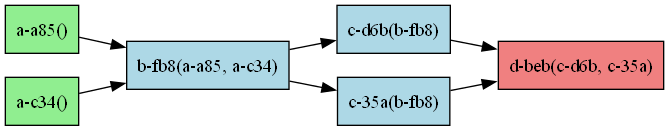
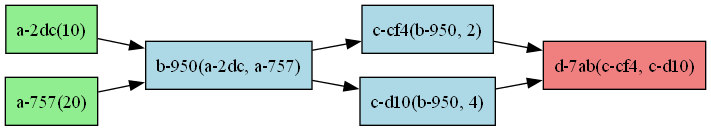
improve user interface + fix visualization bug where only task dependencies were shown, and not pre-computed ones

Changed region(s): [[0.0, 0.0305, 1.0, 0.9771]]

diff --git a/src/Executor.py b/src/Executor.py
@@ -5,50 +5,60 @@ from typing import Any
 import uuid
 import cloudpickle
 
-import src.intermediate_storage as intermediate_storage
 import src.dag as dag
+import src.intermediate_storage as intermediate_storage
 import src.dag_task_node as dag_task_node
 
-class InternalWorker:
+class VirtualWorker:
     """
-    A worker that processes DAG tasks in a depth-first manner,
-    continuing with single downstream tasks and spawning new workers for branches.
+    Processes DAG tasks
+    continuing with single downstream tasks and spawning new workers (coroutines) for branches.
     """
     def __init__(self, executor: "Executor", subdag: dag.DAG):
         self.executor = executor
         self.subdag = subdag
         self.worker_id = str(uuid.uuid4())[:3]  # Use first 8 chars of a UUID for readable IDs
     
-    def execute_task(self, task: dag_task_node.DAGTaskNode) -> asyncio.Task:
-        return asyncio.create_task(self._execute_task(task))
-
-    async def _execute_task(self, task: dag_task_node.DAGTaskNode):
+    async def execute_task(self, task: dag_task_node.DAGTaskNode):
         try:
-            # Execute the node. If this function was called, it means all its dependencies are in remote Storage
+            if self.executor.shutdown_flag.is_set(): return
+
+            # 1. DOWNLOAD DEPENDENCIES
+            self.log(task.task_id, f"({task.task_id}) 1) Grabbing Dependencies...")
             task_dependencies: dict[str, Any] = {}
             for dependency_task in task.upstream_nodes:
                 task_output = intermediate_storage.IntermediateStorage.get(dependency_task.task_id)
                 if task_output is None: raise Exception(f"[BUG] Task {dependency_task.task_id}'s data is not available")
                 task_dependencies[dependency_task.task_id] = cloudpickle.loads(task_output) # type: ignore
             
-            self.log(task.task_id, f"({task.task_id}) Executing...")
-            task_result = task.execute(dependencies=task_dependencies)
+            # 2. EXECUTE TASK
+            self.log(task.task_id, f"({task.task_id}) 2) Executing...")
+            task_result = task.invoke(dependencies=task_dependencies)
             upload_result = intermediate_storage.IntermediateStorage.set(task.task_id, cloudpickle.dumps(task_result))
             if not upload_result: raise Exception(f"[BUG] Task {task.task_id}'s data could not be uploaded to Redis (set() failed)")
-            self.log(task.task_id, f"({task.task_id}) Executed!")
 
+            if self.executor.shutdown_flag.is_set(): return
+
+            if len(task.downstream_nodes) == 0: 
+                self.log(task.task_id, f"Last Task finished. Shutting down executor...")
+                self.executor.shutdown_flag.set()
+                return
+
+            # 3. HANDLE FAN-OUT (1-1 or 1-N)
+            self.log(task.task_id, f"({task.task_id}) 3) Handle Fan-Out {task.task_id} => [{[t.task_id for t in task.downstream_nodes]}]")
             ready_downstream: list[dag_task_node.DAGTaskNode] = []
             for downstream_task in task.downstream_nodes:
                 downstream_task_total_dependencies = len(self.subdag.get_node_by_id(downstream_task.task_id).upstream_nodes)
                 if downstream_task_total_dependencies == 1: # {task} was the only dependency
-                    self.log(task.task_id, f"1-1 READY {downstream_task.task_id}")
                     ready_downstream.append(downstream_task)
                 else:
                     dependencies_met = intermediate_storage.IntermediateStorage.increment_and_get(f"dependency-counter-{downstream_task}")
+                    self.log(task.task_id, f"Incremented DC of {downstream_task.task_id} ({dependencies_met}/{downstream_task_total_dependencies})")
                     if dependencies_met == downstream_task_total_dependencies:
-                        self.log(task.task_id, f"FAN-IN READY {downstream_task.task_id} ({dependencies_met}/{downstream_task_total_dependencies})")
                         ready_downstream.append(downstream_task)
             
+            if self.executor.shutdown_flag.is_set(): return
+
             # Delegate Downstream Tasks Execution
             ## 1 Task ?: the same worker continues with it
             if len(ready_downstream) == 1:
@@ -59,12 +69,11 @@ class InternalWorker:
                 tasks_to_delegate = ready_downstream[1:]
                 
                 for task in tasks_to_delegate:
-                    InternalWorker(self.executor, subdag=dag.DAG(master_dag_id=self.subdag.master_dag_id, sink_node=self.subdag.sink_node, root_nodes=[task])).execute_task(self.subdag.get_node_by_id(task.task_id))
+                    self.executor._spawn_new_virtual_worker(task)
                 
                 # Continue with one task in this worker
                 self.log(task.task_id, f"Continuing with first of multiple downstream tasks: {continuation_task}")
                 await self.execute_task(continuation_task)
-                
         except Exception as e:
             self.log(task.task_id, f"Error")
             raise e
@@ -82,22 +91,19 @@ class Executor:
     """
     def __init__(self, dag: dag.DAG):
         self.dag = dag
-        self.shutdown_flag = threading.Event()
+        self.workers: list[asyncio.Task] = []
+        self.shutdown_flag = asyncio.Event()
 
-    async def execute(self):
-        """Start executing the DAG from root nodes."""
-        # storage_pubsub_topic = f"{self.dag.master_dag_id}-final-result"
-        # await intermediate_storage.IntermediateStorage.subscribe_to_channel(storage_pubsub_topic, callback=self.ready_queue.put_nowait,wait_for_result=False)
-
+    async def start_executing(self):
         # Create 1 worker per root node
         for root_node in self.dag.root_nodes:
-            InternalWorker(self, dag.DAG(master_dag_id=self.dag.master_dag_id, sink_node=self.dag.sink_node, root_nodes=[root_node])).execute_task(root_node)
+            self._spawn_new_virtual_worker(root_node)
         
-        print(f"Launched {len(self.dag.root_nodes)} workers. Waiting for the shutdown signal...")
-        self.shutdown_flag.wait()
-        print(f"DAG Executor Finishing. Doesn't mean master DAG is complete!!")
+        print(f"Launched {len(self.dag.root_nodes)} workers. Waiting for workers to shutdown...")
+        await asyncio.gather(*self.workers)
+        print(f"All workers finished. Executor Shutdown")
 
-        # TODO: worker cleanup code
-
-        # await intermediate_storage.IntermediateStorage.unsubscribe_from_channel(storage_pubsub_topic, wait_for_result=True)
-        # print(f"Unsubscribed from ready_queue channel")
+    def _spawn_new_virtual_worker(self, root_node: dag_task_node.DAGTaskNode):
+        self.workers.append(
+            asyncio.create_task(VirtualWorker(self, self.dag.create_subdag(root_nodes=[root_node])).execute_task(root_node))
+        )

diff --git a/src/DAG.py b/src/DAG.py
@@ -32,7 +32,12 @@ class DAG:
             self.all_nodes: dict[str, dag_task_node.DAGTaskNode] = self._find_all_nodes_from_sink()
             self.root_nodes: list[dag_task_node.DAGTaskNode] = self._identify_root_nodes()
     
+    def create_subdag(self, root_nodes: list[dag_task_node.DAGTaskNode]) -> "DAG":
+        return DAG(self.sink_node, master_dag_id=self.master_dag_id, root_nodes=root_nodes)
+
+    # User interface must be synchronous
     def start_remote_execution(self, wait_for_final_result=False):
+        # TODO: move out of here so that RemoteExecutor can use it as well
         def _invoke_remote_executor(subgraph: DAG):
             print(f"Invoking remote executor for subgraph with {len(subgraph.root_nodes)} root nodes | First Node: {subgraph.root_nodes[0].task_id}")
             response = requests.post(
@@ -44,30 +49,39 @@ class DAG:
 
         # Invoke 1 new Executor per root node
         for root_node in self.root_nodes:
-            # ! WRONG
-            # _invoke_remote_executor(DAG(self.sink_node, master_dag_id=self.master_dag_id, root_nodes=[root_node]))
-            pass
+            _invoke_remote_executor(DAG(self.sink_node, master_dag_id=self.master_dag_id, root_nodes=[root_node]))
             
         if wait_for_final_result: 
-            return self._wait_for_final_result()
+            res = asyncio.run(self._wait_for_final_result())
+            print(f"Got final result: {res}")
+            return res
 
+    # User interface must be synchronous
     def start_local_execution(self, wait_for_final_result=False):
-        e = executor.Executor(self)
-        execute_thread = threading.Thread(target=asyncio.run, args=(e.execute(),))
-        execute_thread.start()
-        def on_done():
-            e.shutdown_flag.set()
-        if wait_for_final_result: return self._wait_for_final_result(on_done=on_done)
+        async def internal():
+            coroutines: list[asyncio.Task] = []
+            
+            ex = executor.Executor(self)
+            coroutines.append(asyncio.create_task(ex.start_executing()))
+            
+            if wait_for_final_result:
+                wait_final_result_coroutine = asyncio.create_task(self._wait_for_final_result())
+                coroutines.append(wait_final_result_coroutine)
+                res = await wait_final_result_coroutine
+                ex.shutdown_flag.set()
+                return res
+            
+            await asyncio.gather(*coroutines)
+            return None
+        return asyncio.run(internal())
 
-    def _wait_for_final_result(self, on_done: Callable | None = None):
+    async def _wait_for_final_result(self):
+        # Asynchronously poll Storage for final result
         while True:
             final_result = intermediate_storage.IntermediateStorage.get(self.sink_node.task_id)
-            print(f"Final Result: {final_result}")
             if final_result is not None:
-                print(f"NICE: {final_result}, on_done: {on_done}")
-                if on_done: on_done()
                 return cloudpickle.loads(final_result) # type: ignore
-            time.sleep(self._FINAL_RESULT_POLLING_TIME_S)
+            await asyncio.sleep(self._FINAL_RESULT_POLLING_TIME_S)
 
     def _identify_root_nodes(self):
         """Identify root nodes (nodes with no upstream dependencies)."""
@@ -101,13 +115,10 @@ class DAG:
         
         for root_node in self.root_nodes: visit(root_node)
         return all_nodes
-
     
-    def get_node_by_id(self, node_id: str) -> dag_task_node.DAGTaskNode:
-        """Retrieve a node by its ID."""
-        return self.all_nodes[node_id]
+    def get_node_by_id(self, node_id: str) -> dag_task_node.DAGTaskNode: return self.all_nodes[node_id]
 
-    def visualize(self, output_file="dag_graph.png", highlight_roots=True, highlight_sink=True):
+    def visualize(self, output_file="dag_graph.png", highlight_roots=True, highlight_sink=True, open_after=True):
         # Create a new directed graph
         dot = graphviz.Digraph(
             comment="DAG Visualization",
@@ -119,9 +130,21 @@ class DAG:
         # Add nodes
         for node_id, node in self.all_nodes.items():
             # Create a label showing function name and args
+            # for dependency in node.upstream_nodes:
+            #     dependency_strs.append(str(dependency.task_id))
+            
             dependency_strs = []
-            for dependency in node.upstream_nodes:
-                dependency_strs.append(str(dependency.task_id))
+            for arg in node.func_args:
+                if isinstance(arg, dag_task_node.DAGTaskNodeId):
+                    dependency_strs.append(str(arg.value))
+                else:
+                    dependency_strs.append(str(arg))
+
+            for key, value in node.func_kwargs.items():
+                if isinstance(value, dag_task_node.DAGTaskNodeId):
+                    dependency_strs.append(f"{key}={value.value}")
+                else:
+                    dependency_strs.append(f"{key}={value}")
             
             # Create the node label
             label = f"{node.task_id}({', '.join(dependency_strs)})"
@@ -144,26 +167,8 @@ class DAG:
             for downstream_node in node.downstream_nodes:
                 dot.edge(node_id, downstream_node.task_id)
         
-        # Render the graph to a file
-        try:
-            # Render and save the graph
-            dot.render(filename=output_file.split('.')[0], cleanup=True)
-            
-            # Get the full path to the rendered file
-            rendered_file = f"{output_file.split('.')[0]}.png"
-            abs_path = os.path.abspath(rendered_file)
-            
-            # Open the file with the default image viewer
-            if platform.system() == 'Darwin':  # macOS
-                subprocess.run(['open', abs_path], check=True)
-            elif platform.system() == 'Windows':
-                os.startfile(abs_path)
-            else:  # Linux and others
-                subprocess.run(['xdg-open', abs_path], check=True)
-            
-            return f"Graph visualization saved to {abs_path}"
-        except Exception as e:
-            return f"Error rendering graph: {str(e)}"
+        # Render the graph to a file and open it
+        dot.render(filename=output_file.split('.')[0], cleanup=True, view=open_after)
     
     def serialize(self):
         return cloudpickle.dumps(self)

diff --git a/src/intermediate_storage.py b/src/intermediate_storage.py
@@ -1,5 +1,5 @@
+from typing import Any
 import redis
-import asyncio
 
 class IntermediateStorage:
     REDIS_HOST = "localhost"
@@ -102,79 +102,6 @@ class IntermediateStorage:
         if cls._connection is not None:
             cls._connection.close()
             cls._connection = None
-
-    @classmethod
-    async def publish_message(cls, channel, message, wait_for_result=False):
-        """
-        Publish a message to a Redis channel asynchronously.
-        
-        Args:
-            channel (str): The channel to publish to.
-            message (str): The message to publish.
-            wait_for_result (bool): Whether to wait for the result.
-            
-        Returns:
-            int: Number of subscribers that received the message (if wait_for_result is True).
-        """
-        conn = cls._get_connection()
-        if wait_for_result:
-            return conn.publish(channel, message)
-        else:
-            asyncio.create_task(asyncio.to_thread(conn.publish, channel, message))
-            return None
-
-    @classmethod
-    async def subscribe_to_channel(cls, channel, callback=None, wait_for_result=False):
-        """
-        Subscribe to a Redis channel asynchronously.
-        
-        Args:
-            channel (str): The channel to subscribe to.
-            callback (callable): A callback function to process incoming messages.
-            wait_for_result (bool): Whether to block and wait for messages.
-            
-        Returns:
-            None or asyncio.Task: Returns a task if wait_for_result is False.
-        """
-        conn = cls._get_connection()
-        pubsub = conn.pubsub()
-        pubsub.subscribe(channel)
-
-        async def listen():
-            while True:
-                message = pubsub.get_message(ignore_subscribe_messages=True)
-                if message:
-                    if callback:
-                        callback(message)
-                    else:
-                        print(f"Received message: {message['data'].decode('utf-8')}")
-                await asyncio.sleep(0.1)
-
-        if wait_for_result:
-            await listen()
-        else:
-            return asyncio.create_task(listen())
-
-    @classmethod
-    async def unsubscribe_from_channel(cls, channel, wait_for_result=False):
-        """
-        Unsubscribe from a Redis channel asynchronously.
-        
-        Args:
-            channel (str): The channel to unsubscribe from.
-            wait_for_result (bool): Whether to wait for the result.
-            
-        Returns:
-            None or asyncio.Task: Returns a task if wait_for_result is False.
-        """
-        conn = cls._get_connection()
-        pubsub = conn.pubsub()
-        pubsub.unsubscribe(channel)
-
-        if wait_for_result:
-            await asyncio.to_thread(pubsub.close)
-        else:
-            return asyncio.create_task(asyncio.to_thread(pubsub.close))
 
 # Example usage
 # async def example_usage():

diff --git a/src/dag_task_node.py b/src/dag_task_node.py
@@ -43,7 +43,17 @@ class DAGTaskNode(Generic[R]):
             if isinstance(value, DAGTaskNode):
                 value.downstream_nodes.append(self)
 
-    def execute(self, dependencies: dict[str, Any]):
+    def visualize_dag(self, open_after: bool = True):
+        import src.dag as dag
+        dag.DAG(sink_node=self).visualize(open_after=open_after)
+
+    def compute(self, local=False) -> R:
+        import src.dag as dag
+        dag_representation = dag.DAG(sink_node=self)
+        if local: return dag_representation.start_local_execution(wait_for_final_result=True) # type: ignore
+        else: return dag_representation.start_remote_execution(wait_for_final_result=True) # type: ignore
+
+    def invoke(self, dependencies: dict[str, Any]):
         final_func_args = []
         final_func_kwargs = {}
 

diff --git a/test.py b/test.py
@@ -1,5 +1,4 @@
 import json
-from src.dag import DAG
 from src.dag_task_node import DAGTask
 
 @DAGTask
@@ -27,7 +26,6 @@ c1 = c(b1, 2)
 c2 = c(b1, 4)
 d1 = d(c1, c2)
 
-dag = DAG(sink_node=d1)
-# dag.visualize()
-result = dag.start_local_execution(wait_for_final_result=True)
+# d1.visualize_dag()
+result = d1.compute(local=True)
 print(f"DONE | Result: {result} | TypeOf Result: {type(result)}")

diff --git a/TODO.md b/TODO.md
@@ -1,6 +1,3 @@
-- BUG: using the threading event doesnt work because it blocks the Executor thread and doesn't allow coroutines to execute the tasks
-    using asycnio event doesn work because it cant be set from another thread
 - Redis communications using the "dag.master_id"
     master_id is used start from at the executor level?
-- InternalWorker signal master executor shutdown if its the last task and finished
-- Improve user interface to `DAGTaskNode.compute() -> R`
+- Implement RemoteWorker (similar to VirtualWorker) but instead of invoking new asyncio task, invokes new remote worker (how to handle finishing?)
